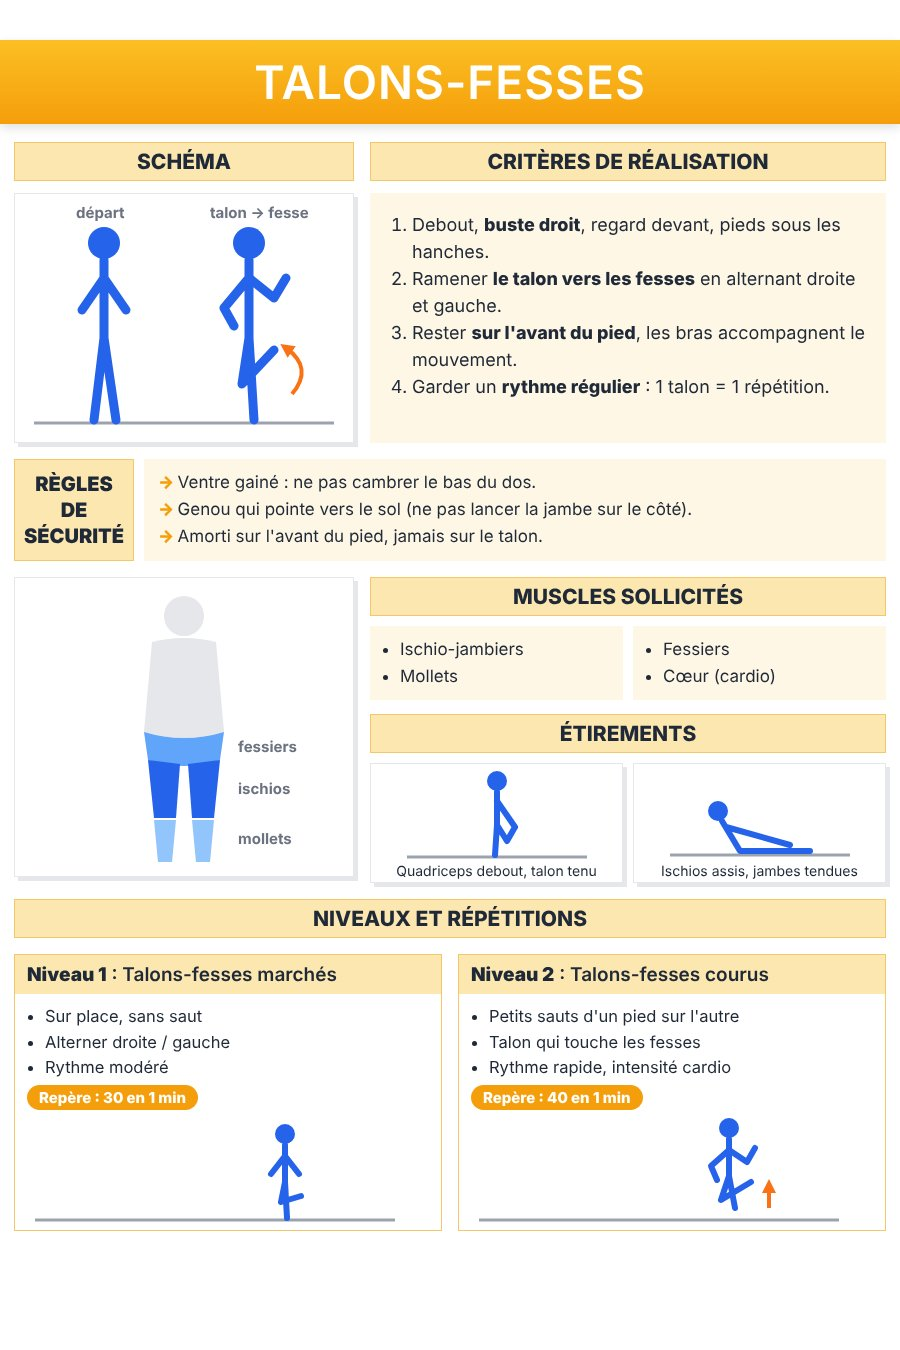
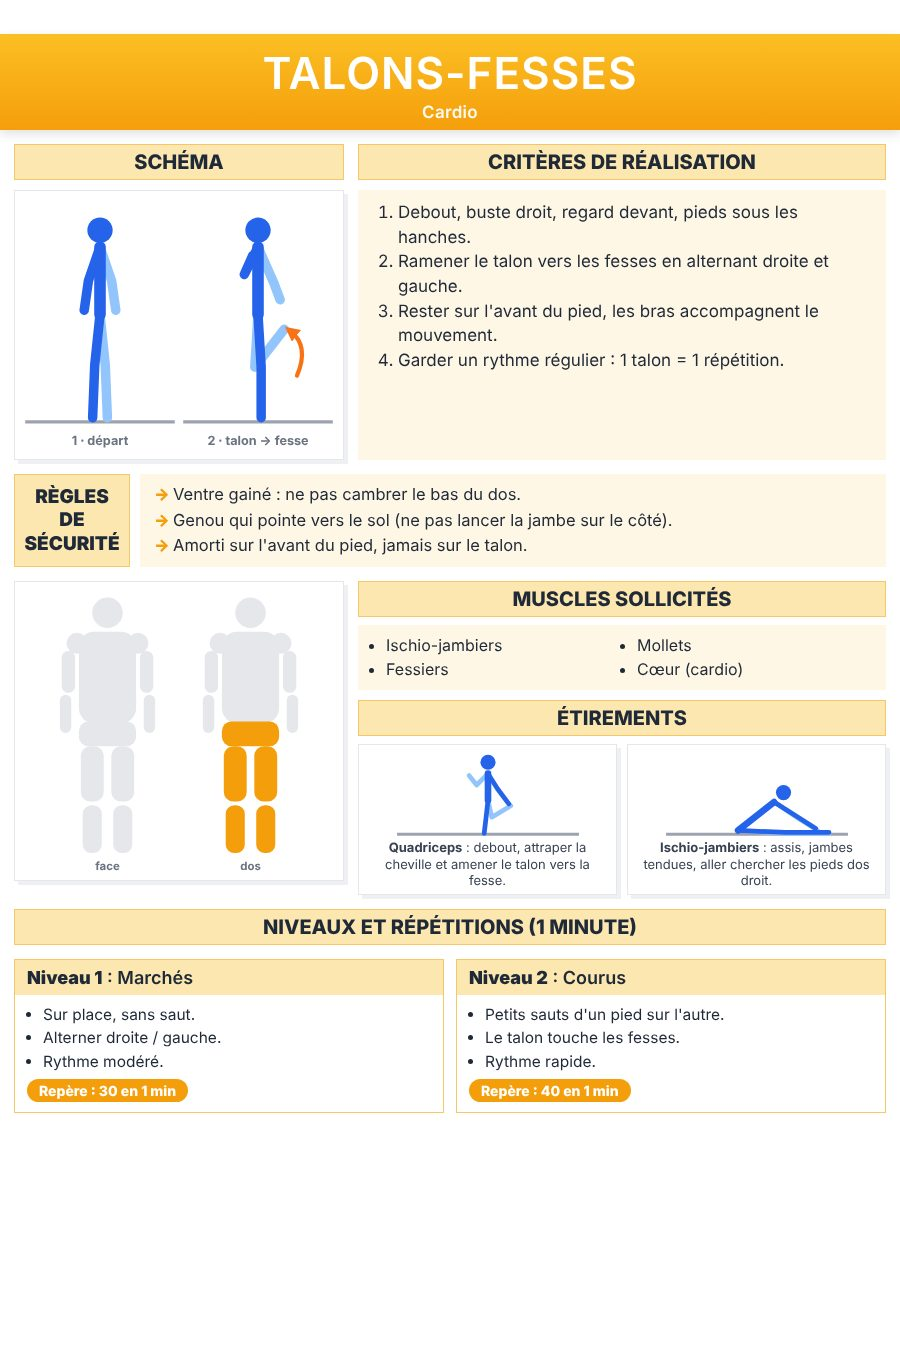
Cross Training v2 : fiches à pictogrammes pour les 15 nouveaux exercices
Même format que les fiches existantes (schéma en 2 temps, critères,
sécurité, carte des muscles, étirements illustrés, niveaux et repères),
couleur par famille, générées depuis les textes corrigés de data.js.

Claude-Session: https://claude.ai/code/session_01RHBbw5bmr8bwFpbJ6oKkr9

Changed region(s): [[0.0, 0.0, 1.0, 0.9333], [0.0311, 0.8089, 0.4356, 0.9333]]

diff --git a/v2/data.js b/v2/data.js
@@ -69,7 +69,7 @@
       ],
     },
     {
-      id: "patineurs", name: "Patineurs", family: "cardio", image: null,
+      id: "patineurs", name: "Patineurs", family: "cardio", image: "img/patineurs.jpg",
       levels: [
         { n: 1, label: "Pas chassés", expected: 24, tips: ["Grand pas sur le côté, sans saut.", "Toucher le sol derrière avec la pointe du pied libre."] },
         { n: 2, label: "Sautés", expected: 30, tips: ["Sauter d'un pied sur l'autre.", "Le pied libre ne touche pas le sol."] },
@@ -77,7 +77,7 @@
       ],
     },
     {
-      id: "marche-ours", name: "Marche de l'ours", family: "cardio", image: null,
+      id: "marche-ours", name: "Marche de l'ours", family: "cardio", image: "img/marche-ours.jpg",
       levels: [
         { n: 1, label: "Sur place", expected: 30, tips: ["Genoux décollés de quelques centimètres.", "Lever une main et le pied opposé, puis l'inverse.", "1 pas = 1 répétition."] },
         { n: 2, label: "Avant-arrière", expected: 24, tips: ["4 pas en avant, 4 pas en arrière.", "Genoux toujours décollés.", "1 pas = 1 répétition."] },
@@ -110,28 +110,28 @@
       ],
     },
     {
-      id: "pompes-spiderman", name: "Pompes spiderman", family: "haut", image: null,
+      id: "pompes-spiderman", name: "Pompes spiderman", family: "haut", image: "img/pompes-spiderman.jpg",
       levels: [
         { n: 1, label: "Sur genoux", expected: 10, tips: ["Pompe sur les genoux.", "Après chaque pompe, ramener un genou vers le coude du même côté."] },
         { n: 2, label: "Complètes", expected: 10, tips: ["Pompe sur les pieds.", "Pendant la descente, genou vers le coude du même côté.", "Alterner droite / gauche."] },
       ],
     },
     {
-      id: "pompes-piquees", name: "Pompes piquées", family: "haut", image: null,
+      id: "pompes-piquees", name: "Pompes piquées", family: "haut", image: "img/pompes-piquees.jpg",
       levels: [
         { n: 1, label: "Pieds au sol", expected: 10, tips: ["Position en « V » inversé.", "Tête vers le sol entre les mains."] },
         { n: 2, label: "Pieds surélevés", expected: 8, tips: ["Pieds sur un banc, corps plus vertical.", "Descente lente."] },
       ],
     },
     {
-      id: "inchworms", name: "Inchworms", family: "haut", image: null,
+      id: "inchworms", name: "Inchworms", family: "haut", image: "img/inchworms.jpg",
       levels: [
         { n: 1, label: "Sans pompe", expected: 8, tips: ["Marcher avec les mains jusqu'à la planche, puis revenir.", "1 aller-retour = 1 répétition."] },
         { n: 2, label: "Avec 1 pompe", expected: 6, tips: ["Une pompe complète en position de planche.", "1 aller-retour = 1 répétition."] },
       ],
     },
     {
-      id: "planche-dynamique", name: "Planche dynamique", family: "haut", image: null,
+      id: "planche-dynamique", name: "Planche dynamique", family: "haut", image: "img/planche-dynamique.jpg",
       levels: [
         { n: 1, label: "Sur genoux", expected: 12, tips: ["Genoux au sol.", "Passer des avant-bras aux mains, puis revenir."] },
         { n: 2, label: "Complète", expected: 10, tips: ["Sur les pieds, corps gainé.", "Changer de bras de départ à chaque répétition."] },
@@ -164,28 +164,28 @@
       ],
     },
     {
-      id: "fentes-laterales", name: "Fentes latérales", family: "bas", image: null,
+      id: "fentes-laterales", name: "Fentes latérales", family: "bas", image: "img/fentes-laterales.jpg",
       levels: [
         { n: 1, label: "Amplitude réduite", expected: 16, tips: ["Petit pas sur le côté.", "Descente partielle."] },
         { n: 2, label: "Complètes", expected: 20, tips: ["Grand pas sur le côté.", "Cuisse fléchie proche de l'horizontale."] },
       ],
     },
     {
-      id: "squats-sumo", name: "Squats sumo", family: "bas", image: null,
+      id: "squats-sumo", name: "Squats sumo", family: "bas", image: "img/squats-sumo.jpg",
       levels: [
         { n: 1, label: "Classique", expected: 18, tips: ["Pieds très écartés, pointes vers l'extérieur.", "Descente contrôlée."] },
         { n: 2, label: "Sautés", expected: 14, tips: ["Squat sumo, puis saut vers le haut.", "Réception amortie pieds écartés."] },
       ],
     },
     {
-      id: "fire-hydrants", name: "Fire hydrants", family: "bas", image: null,
+      id: "fire-hydrants", name: "Fire hydrants", family: "bas", image: "img/fire-hydrants.jpg",
       levels: [
         { n: 1, label: "Classique", expected: 24, tips: ["Lever le genou sur le côté jusqu'à la hauteur de la hanche.", "Changer de côté à mi-temps."] },
         { n: 2, label: "Pause 1 seconde en haut", expected: 18, tips: ["Tenir 1 seconde genou levé.", "Changer de côté à mi-temps."] },
       ],
     },
     {
-      id: "mollets", name: "Extensions des mollets", family: "bas", image: null,
+      id: "mollets", name: "Extensions des mollets", family: "bas", image: "img/mollets.jpg",
       levels: [
         { n: 1, label: "2 pieds", expected: 30, tips: ["Monter sur la pointe des pieds, redescendre lentement."] },
         { n: 2, label: "1 pied", expected: 20, tips: ["Sur un seul pied, la main contre le mur.", "Changer de pied à mi-temps."] },
@@ -219,28 +219,28 @@
       ],
     },
     {
-      id: "v-ups", name: "V-ups", family: "gainage", image: null,
+      id: "v-ups", name: "V-ups", family: "gainage", image: "img/v-ups.jpg",
       levels: [
         { n: 1, label: "Alternés", expected: 16, tips: ["Monter le buste et une seule jambe tendue.", "Alterner les jambes."] },
         { n: 2, label: "Complets", expected: 12, tips: ["Monter le buste et les deux jambes en même temps.", "Toucher les pieds en haut."] },
       ],
     },
     {
-      id: "superman", name: "Superman", family: "gainage", image: null,
+      id: "superman", name: "Superman", family: "gainage", image: "img/superman.jpg",
       levels: [
         { n: 1, label: "Bras ou jambes", expected: 20, tips: ["Alterner : décoller les bras, puis les jambes."] },
         { n: 2, label: "Bras et jambes", expected: 16, tips: ["Décoller bras et jambes en même temps.", "Tenir 1 seconde en haut."] },
       ],
     },
     {
-      id: "bicyclette", name: "Abdos bicyclette", family: "gainage", image: null,
+      id: "bicyclette", name: "Abdos bicyclette", family: "gainage", image: "img/bicyclette.jpg",
       levels: [
         { n: 1, label: "Lents", expected: 20, tips: ["Pause d'une seconde à chaque rotation."] },
         { n: 2, label: "Rapides", expected: 30, tips: ["Rythme rapide, sans perdre le contrôle."] },
       ],
     },
     {
-      id: "planche-twist", name: "Planche twist", family: "gainage", image: null,
+      id: "planche-twist", name: "Planche twist", family: "gainage", image: "img/planche-twist.jpg",
       levels: [
         { n: 1, label: "Sur genoux", expected: 20, tips: ["Planche sur les avant-bras, genoux au sol.", "Pivoter le bassin d'un côté puis de l'autre."] },
         { n: 2, label: "Complète", expected: 24, tips: ["Planche sur les avant-bras et les pieds.", "Hanche vers le sol sans le toucher."] },

diff --git a/v2/sw.js b/v2/sw.js
@@ -1,11 +1,14 @@
 /* Cross Training v2 — mode hors-ligne (réseau d'abord, sinon cache).
  * Augmenter VERSION à chaque mise en ligne. */
-const VERSION = "crosstraining-v2-2026-10-31d";
+const VERSION = "crosstraining-v2-2026-10-31e";
 const PREFIX = "crosstraining-v2-";
 const FILES = ["./", "index.html", "app.css", "app.js", "data.js", "lib/qrcode.js",
   "img/burpees.jpg", "img/crunch.jpg", "img/dips.jpg", "img/fentes.jpg", "img/jumping-jack.jpg", "img/mountain.jpg",
   "img/planche-touches-epaule.jpg", "img/pompe-diamant.jpg", "img/pompes.jpg", "img/pont-fessier.jpg", "img/rameur.jpg",
-  "img/saut.jpg", "img/squat.jpg", "img/talons-fesses.jpg"];
+  "img/saut.jpg", "img/squat.jpg", "img/talons-fesses.jpg",
+  "img/patineurs.jpg", "img/marche-ours.jpg", "img/pompes-spiderman.jpg", "img/pompes-piquees.jpg", "img/inchworms.jpg",
+  "img/planche-dynamique.jpg", "img/fentes-laterales.jpg", "img/squats-sumo.jpg", "img/fire-hydrants.jpg", "img/mollets.jpg",
+  "img/v-ups.jpg", "img/superman.jpg", "img/bicyclette.jpg", "img/planche-twist.jpg"];
 
 self.addEventListener("install", (event) => {
   event.waitUntil(
